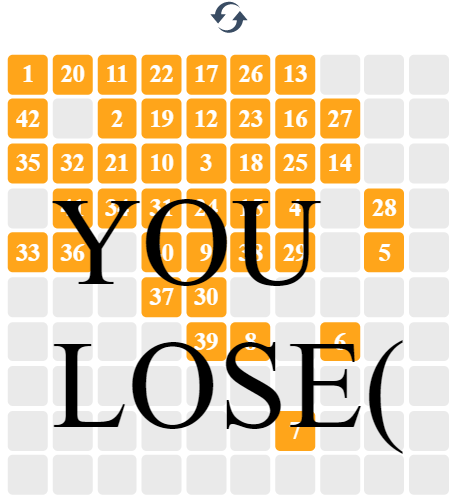
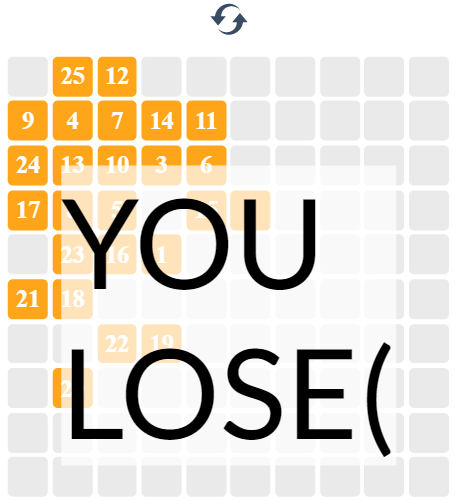
fix styles on the board and about components

diff --git a/src/app/about/about.component.html b/src/app/about/about.component.html
@@ -9,4 +9,5 @@
 <p>If this happens, press the refresh button</p>
 <img src="/assets/refresh.png" class="refresh">
 <p class="finish">The goal of the game is to fill in all the cells.
-	The entire field will turn yellow and on the last pressed cell you will see the number 100.</p>
+	The entire field will turn yellow and on the last pressed cell you will see the number 100.<br><br>
+	GOOD LUCK!</p>

diff --git a/src/app/game/board/board.component.scss b/src/app/game/board/board.component.scss
@@ -64,10 +64,12 @@
 		position: fixed;
 		text-transform: uppercase;
 		font-size: 100px;
-
+		font-family: Lato;
+		display: flex;
 		top: 50%;
 		left: 50%;
 		transform: translate(-50%, -50%);
+		background-color: rgba(255, 255, 255, 0.7);
 	}
 
 	//span

diff --git a/src/app/about/about.component.scss b/src/app/about/about.component.scss
@@ -12,8 +12,13 @@
 	}
 
 	.finish {
-		color: #459AFE;
-		font-size: 18px;
+		font-family: "Baloo Bhaina 2";
+		color: #FFA51A;
+		font-size: 20px;
+		text-align: center;
+		border: 1px solid #FFA51A;
+		border-radius: 4px;
+		padding: 2%;
 	}
 
 	img {
